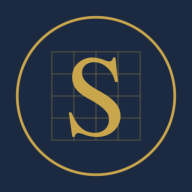
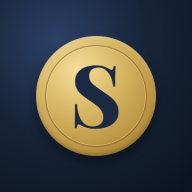
Add files via upload

diff --git a/index.html b/index.html
@@ -9,8 +9,12 @@
 <meta name="apple-mobile-web-app-status-bar-style" content="black-translucent">
 <meta name="apple-mobile-web-app-title" content="Budget">
 <link rel="manifest" href="manifest.webmanifest">
-<link rel="icon" href="icon-192.png">
-<link rel="apple-touch-icon" href="icon-192.png">
+<link rel="icon" type="image/png" sizes="32x32" href="favicon-32.png">
+<link rel="icon" type="image/png" sizes="192x192" href="icon-192.png">
+<link rel="apple-touch-icon" sizes="180x180" href="apple-touch-icon.png">
+<meta name="mobile-web-app-capable" content="yes">
+<meta name="application-name" content="Budget">
+<meta name="description" content="SheetsInGold Budget App: what is safe to spend today, bills, paychecks, goals and debt. Offline, no account.">
 <link rel="preconnect" href="https://fonts.googleapis.com">
 <link href="https://fonts.googleapis.com/css2?family=Playfair+Display:wght@600;700&family=Montserrat:wght@400;500;600;700;800&display=swap" rel="stylesheet">
 <style>
@@ -137,6 +141,8 @@ button,input,select,textarea{font:inherit;color:inherit}
  .bnav button{background:none;border:0;display:flex;flex-direction:column;align-items:center;gap:3px;font-size:10.5px;font-weight:700;color:var(--muted);cursor:pointer;flex:1}
  .bnav button .ic{font-size:19px}.bnav button.on{color:var(--gold)}
  .bnav .plus{background:var(--gold);color:var(--onacc);border-radius:50%;width:50px;height:50px;flex:0 0 50px;margin-top:-22px;box-shadow:var(--shadow);font-size:26px;font-weight:800;justify-content:center}
+ .install{flex-wrap:wrap;gap:10px 12px}.install .grow{flex:1 1 170px}.install img{width:44px;height:44px;flex-basis:44px}
+ .top .chipbar{gap:6px}.top .chipbar .btn{padding:8px 11px;font-size:12px}
  .cal{gap:4px}.cal .c{min-height:58px;padding:4px;border-radius:9px}.cal .h{font-size:9.5px;letter-spacing:0}.card{padding:16px}.g4.keep{gap:12px}.kpi .v{font-size:23px}.cal .ev{font-size:0;height:6px;padding:0}.cal .ev.s{display:none}
 }
 .swatches{display:grid;grid-template-columns:repeat(auto-fill,minmax(132px,1fr));gap:10px;margin-top:8px}
@@ -176,6 +182,12 @@ button,input,select,textarea{font:inherit;color:inherit}
 .illus{display:flex;flex-direction:column;align-items:center;gap:10px}.illus svg{width:74px;height:74px;color:var(--gold);opacity:.85}
 body.priv .amt,body.priv .big,body.priv .kpi .v,body.priv .pp b,body.priv .expl b,body.priv .ev.p,body.priv .verdict b{filter:blur(7px)}
 body.priv .amt:hover{filter:none}
+.install{display:flex;gap:14px;align-items:center;background:linear-gradient(135deg,var(--goldbg),transparent);border:1px solid var(--gold);border-radius:18px;padding:14px 16px;margin-bottom:18px}
+.install img{width:52px;height:52px;border-radius:13px;flex:0 0 52px;box-shadow:0 6px 16px rgba(0,0,0,.25)}
+.ios-steps{counter-reset:st;margin-top:10px}.ios-steps div{position:relative;padding:12px 0 12px 42px;border-bottom:1px solid var(--line);font-size:14px;line-height:1.5}
+.ios-steps div:before{counter-increment:st;content:counter(st);position:absolute;left:0;top:10px;width:28px;height:28px;border-radius:50%;background:var(--gold);color:var(--onacc);font-weight:800;display:flex;align-items:center;justify-content:center}
+.ios-steps svg{width:20px;height:20px;vertical-align:-4px;color:var(--blue);display:inline-block}
+.side .inst{margin-top:8px;background:none;border:1px solid var(--gold);color:var(--gold);border-radius:12px;padding:10px;font-weight:800;cursor:pointer;display:flex;gap:8px;align-items:center;justify-content:center}
 </style>
 </head>
 <body>
@@ -291,6 +303,21 @@ function calc(t = TODAY()){
   const daily = (safe + spentToday) / days;
   return {t, np, end, days, now, pays, inc, spent, paidOut, extraDebt, owed, mustPay, setAside, goals, buffer, safe, spentToday, daily, today: daily - spentToday};
 }
+
+/* ---------- install as an app ---------- */
+let deferredPrompt = null;
+const isStandalone = () => matchMedia('(display-mode: standalone)').matches || matchMedia('(display-mode: window-controls-overlay)').matches || navigator.standalone === true;
+const isIOS = () => /iphone|ipad|ipod/i.test(navigator.userAgent) || (navigator.platform === 'MacIntel' && navigator.maxTouchPoints > 1);
+const inAppBrowser = () => /FBAN|FBAV|Instagram|Etsy|Line\/|Pinterest|TikTok/i.test(navigator.userAgent);
+window.addEventListener('beforeinstallprompt', e => { e.preventDefault(); deferredPrompt = e; if (S && S.setupDone) render(); });
+window.addEventListener('appinstalled', () => { deferredPrompt = null; if (S) { S.installed = true; save(); render(); } toast('Installed. Look for the Budget icon on your home screen or desktop.'); });
+function canOfferInstall(){ return !isStandalone() && !(S && S.installed && !deferredPrompt); }
+function installCard(){
+  if (!canOfferInstall() || (S.installHide && diff(TODAY(), S.installHide) < 14)) return '';
+  return `<div class="install hide-focus"><img src="icon-192.png" alt=""><div class="grow"><b>Put Budget on your ${isIOS()||/android/i.test(navigator.userAgent)?'home screen':'desktop'}</b><div class="tiny muted" style="margin-top:3px">Opens like a real app, works offline and keeps your numbers safer.</div></div><button class="btn gold" data-act="install">Install</button><button class="btn sm ghost" data-act="installLater">Later</button></div>`;
+}
+const SHARE_ICON = '<svg viewBox="0 0 24 24" fill="none" stroke="currentColor" stroke-width="2" stroke-linecap="round" stroke-linejoin="round"><path d="M12 3v12M8 7l4-4 4 4"/><path d="M5 11v8a2 2 0 002 2h10a2 2 0 002-2v-8"/></svg>';
+const ADD_ICON = '<svg viewBox="0 0 24 24" fill="none" stroke="currentColor" stroke-width="2" stroke-linecap="round" stroke-linejoin="round"><rect x="3" y="3" width="18" height="18" rx="4"/><path d="M12 8v8M8 12h8"/></svg>';
 
 /* ---------- icons (own simple line set) ---------- */
 const IC = {
@@ -409,6 +436,7 @@ function render(){
     <div class="brand" data-go="settings" style="cursor:pointer">${avatarHTML()}<div><b>${esc(S.title||'My money plan')}</b><small>${esc(S.name||'SheetsInGold Budget')}</small></div></div>
     ${NAV.map(n => `<button class="nav ${view===n[0]?'on':''}" data-go="${n[0]}"><span class="ic">${ico(n[2])}</span>${n[1]}</button>`).join('')}
     <div class="grow"></div>
+    ${canOfferInstall() ? `<button class="inst" data-act="install">${ico('plus')} Install app</button>` : ''}
     <button class="log" data-act="logModal">+ Log a spend</button>
   </aside>
   <main class="main ${focus?'focus':''}">${V()}</main>
@@ -430,7 +458,8 @@ function vToday(){
   const todays = S.spends.filter(s => s.date === t).slice().reverse();
   const next = nextThing(c);
   const away = diff(t, S.lastOpenPrev || t) >= 7;
-  return `${head(greet(), nice(t)+' · '+esc(S.title||''), `<button class="btn hide-focus" data-act="afford">${ico('spark')} Can I afford it?</button><button class="btn" data-act="privacy" title="Hide amounts">${ico((S.profile||{}).privacy?'eyeoff':'eye')}</button><button class="btn" data-act="themeModal" title="Colour theme">${ico('theme')}</button><button class="btn ${focus?'gold':''}" data-act="focus">${focus?'Show everything':'Focus mode'}</button>`)}
+  return `${head(greet(), nice(t)+' · '+esc(S.title||''), `<button class="btn hide-focus" data-act="afford">${ico('spark')} Can I afford it?</button><button class="btn" data-act="privacy" title="Hide amounts">${ico((S.profile||{}).privacy?'eyeoff':'eye')}</button><button class="btn" data-act="themeModal" title="Colour theme">${ico('theme')}</button><button class="btn ${focus?'gold':''}" data-act="focus">${focus?'Show all':'Focus'}</button>`)}
+  ${installCard()}
   ${away ? `<div class="card hide-focus" style="margin-bottom:18px;border-color:var(--gold)"><h3>While you were away <button class="btn sm ghost" data-act="dismissAway">Not now</button></h3>
      <div class="small muted" style="margin-bottom:10px">It has been a while. Three quick checks and every number is right again.</div>
      <div class="chipbar"><button class="btn" data-go="bills">1 · Tick bills that went out</button><button class="btn" data-go="money">2 · Check money that came in</button><button class="btn gold" data-act="balanceModal">3 · Type today's balance</button></div></div>` : ''}
@@ -678,6 +707,8 @@ function vSettings(){
       <div class="card"><h3>Keep your numbers safe</h3><div class="tiny muted" style="margin-bottom:12px">On iPhone and iPad, add this planner to your Home Screen first (Share › Add to Home Screen). Download a backup now and then, and you can restore it on any device.</div>
         <div class="chipbar"><button class="btn gold" data-act="backup">Download a backup</button><button class="btn" data-act="shareBackup">Send to my other device</button><button class="btn" data-act="restore">Restore a backup</button><button class="btn" data-act="csv">Export spending (CSV)</button></div><input type="file" id="restoreFile" accept=".json,application/json" style="display:none">
         <div class="tiny muted" style="margin-top:10px">Using a phone and a laptop? Tap "Send to my other device", pick WhatsApp, email or AirDrop, then open the planner there and choose Restore.</div></div>
+      <div class="card"><h3>Use it like an app</h3><div style="display:flex;gap:14px;align-items:center"><img src="icon-192.png" alt="" style="width:56px;height:56px;border-radius:14px"><div class="tiny muted">${isStandalone() ? 'You are using the installed app. 🎉 It opens from your home screen or desktop and works offline.' : 'Install Budget on your phone and your computer. It gets its own icon, opens in its own window and works offline.'}</div></div>
+        ${isStandalone() ? '' : `<div class="chipbar" style="margin-top:12px"><button class="btn gold" data-act="install">Install app</button><button class="btn" data-act="installHelp">How to install</button></div>`}</div>
       <div class="card"><h3>Bill reminders on your phone</h3><div class="tiny muted" style="margin-bottom:12px">Download one calendar file with every bill and payday. Open it on your phone and they appear in your own calendar, with a reminder the day before each bill. Nothing is sent anywhere.</div><button class="btn gold" data-act="ics">Add reminders to my calendar</button></div>
       <div class="card"><h3>Start again</h3><div class="chipbar"><button class="btn" data-act="exampleAgain">Show the example</button><button class="btn red" data-act="erase">Erase everything</button></div></div>
     </div>
@@ -805,6 +836,19 @@ const A = {
   exampleAgain(){ if (!confirm('Replace your numbers with the example? Download a backup first if you want to keep them.')) return; S = example(); save(); view = 'today'; render(); },
   erase(){ if (!confirm('Erase everything on this device? This cannot be undone unless you have a backup.')) return; localStorage.removeItem(KEY); S = null; onboard(); },
   close(){ close(); },
+  async install(){ if (deferredPrompt) { deferredPrompt.prompt(); const r = await deferredPrompt.userChoice.catch(() => null); deferredPrompt = null; if (r && r.outcome === 'accepted') { S.installed = true; save(); } render(); return; } A.installHelp(); },
+  installLater(){ S.installHide = TODAY(); save(); render(); },
+  installHelp(){
+    let body;
+    if (inAppBrowser()) body = `<div class="verdict m">You are inside another app's browser (like Etsy or Instagram). Tap the <b>⋯</b> menu and choose <b>Open in Safari</b> or <b>Open in Chrome</b> first, then come back to this screen.</div>`;
+    else if (isIOS()) body = `<div class="muted small">iPhone and iPad install web apps from Safari. It takes 10 seconds.</div><div class="ios-steps">
+        <div>Open this page in <b>Safari</b></div><div>Tap the <b>Share</b> button ${SHARE_ICON} at the bottom (or top on iPad)</div>
+        <div>Scroll and tap <b>Add to Home Screen</b> ${ADD_ICON}</div><div>Tap <b>Add</b>. The gold <b>Budget</b> icon appears on your home screen</div></div>
+        <div class="tip">${ico('shield')}<div>Open Budget from the icon from now on. On iPhone this also keeps your numbers from being cleared by Safari.</div></div>`;
+    else if (/android/i.test(navigator.userAgent)) body = `<div class="ios-steps"><div>Open this page in <b>Chrome</b></div><div>Tap the <b>⋮</b> menu at the top right</div><div>Tap <b>Install app</b> (or <b>Add to Home screen</b>)</div><div>Tap <b>Install</b>. The Budget icon appears with your other apps</div></div>`;
+    else body = `<div class="ios-steps"><div><b>Chrome or Edge:</b> click the install icon ${ADD_ICON} at the right end of the address bar, or the menu › <b>Install Budget</b> (Edge: <b>Apps › Install this site as an app</b>)</div>
+        <div>Click <b>Install</b>. Budget gets a desktop icon, a Start menu or Dock entry and its own window</div><div><b>Safari on Mac:</b> File › <b>Add to Dock</b></div></div>`;
+    modal(`<div style="display:flex;gap:14px;align-items:center"><img src="icon-192.png" alt="" style="width:60px;height:60px;border-radius:15px"><div><h2 style="margin:0">Install Budget</h2><div class="tiny muted">Your own app icon, works offline, no app store needed</div></div></div>${body}<div class="acts"><button class="btn gold" data-act="close">Got it</button></div>`); },
   privacy(){ S.profile = S.profile || {}; S.profile.privacy = !S.profile.privacy; save(); render(); toast(S.profile.privacy ? 'Amounts hidden. Hover or tap the eye to show them again.' : 'Amounts showing.'); },
   pick(el){ S.profile = S.profile || {}; const f = el.dataset.f, v = el.dataset.v; S.profile[f] = v === '1' ? true : v === '' ? false : v; if (document.getElementById('s_name')) { S.name = val('s_name') || S.name; S.title = val('s_title') || S.title; S.profile.bio = val('s_bio'); } save(); render(); },
   avColor(el){ S.profile = S.profile || {}; S.profile.color = el.dataset.v; save(); render(); },
@@ -1014,8 +1058,9 @@ function onboard(step = 0, draft = {}){
 const QS = new URLSearchParams(location.search);
 if (QS.has('example') && (!S || !S.setupDone)) { S = example(); if (QS.get('theme')) S.theme = QS.get('theme'); save(); }   // never overwrites a real planner
 if (QS.get('view')) view = QS.get('view');
+const GO_LOG = QS.get('go') === 'log';
 if (!S || !S.setupDone) onboard();
-else { S.lastOpenPrev = S.lastOpen || TODAY(); S.lastOpen = TODAY(); save(); render(); }
+else { S.lastOpenPrev = S.lastOpen || TODAY(); S.lastOpen = TODAY(); save(); render(); if (GO_LOG) A.logModal(); }
 if ('serviceWorker' in navigator && location.protocol.startsWith('http')) navigator.serviceWorker.register('sw.js').catch(()=>{});
 </script>
 </body>

diff --git a/sw.js b/sw.js
@@ -1,10 +1,10 @@
 // SheetsInGold Budget App: offline cache. Bump VERSION to ship an update.
-const VERSION = 'sig-app-v3';
-const FILES = ['./', './index.html', './manifest.webmanifest', './icon-192.png', './icon-512.png'];
+const VERSION = 'sig-app-v4';
+const FILES = ['./', './index.html', './manifest.webmanifest', './icon-192.png', './icon-512.png', './icon-maskable-192.png', './icon-maskable-512.png', './apple-touch-icon.png', './favicon-32.png'];
 self.addEventListener('install', e => { e.waitUntil(caches.open(VERSION).then(c => c.addAll(FILES))); self.skipWaiting(); });
 self.addEventListener('activate', e => { e.waitUntil(caches.keys().then(ks => Promise.all(ks.filter(k => k !== VERSION).map(k => caches.delete(k))))); self.clients.claim(); });
 self.addEventListener('fetch', e => {
   if (e.request.method !== 'GET') return;
   // network first for the app page (so updates arrive), cache fallback offline
-  e.respondWith(fetch(e.request).then(r => { const copy = r.clone(); caches.open(VERSION).then(c => c.put(e.request, copy)); return r; }).catch(() => caches.match(e.request).then(r => r || caches.match('./index.html'))));
+  e.respondWith(fetch(e.request).then(r => { const copy = r.clone(); caches.open(VERSION).then(c => c.put(e.request, copy)); return r; }).catch(() => caches.match(e.request, {ignoreSearch:true}).then(r => r || caches.match('./index.html'))));
 });
